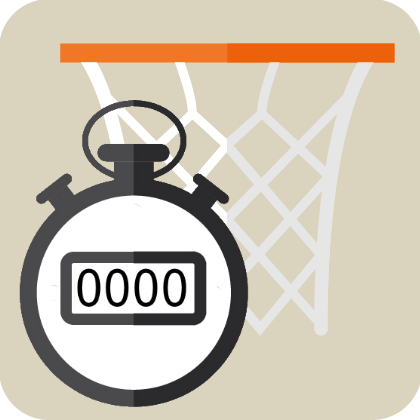
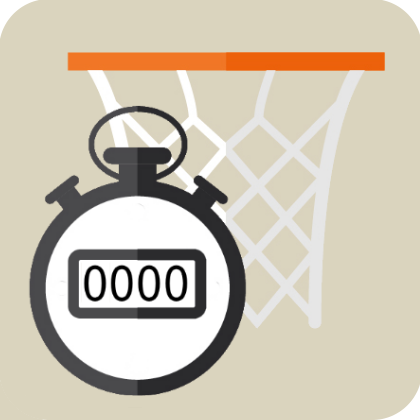
New layout

diff --git a/main.py b/main.py
@@ -5,6 +5,7 @@ from kivy.uix.screenmanager import ScreenManager, Screen
 from kivy.uix.image import Image
 from kivy.properties import NumericProperty
 from kivy.config import Config
+from kivy.metrics import dp
 from kivy.lang.builder import Builder
 
 import json
@@ -12,7 +13,6 @@ import time
 
 from controllerdrill import ControllerDrill
 
-Config.read("config.ini")
 
 class Manager(ScreenManager):
 
@@ -37,25 +37,48 @@ class Manager(ScreenManager):
         with open(path + 'saved_score.json', 'w') as saved_score:
             json.dump(self.data, saved_score)
 
+    def back_menu(self, window, key, *args):
+            if key == 27:
+                App.get_running_app().root.current = 'menu'
+                self.transition.direction = "right"
+            return True
+
         
 class Menu(Screen):
     pass
 
+class Settings(screen):
+    pass
+
 class Drill(Screen):
 
+    splash = NumericProperty(0)
+    wrong = NumericProperty(0)
+    percentage = NumericProperty(.0)
+
     def __init__(self,**kwargs):
-        super().__init__(**kwargs)
         self.session = ControllerDrill()
+        super().__init__(**kwargs)
         self.last_shots = [0,0,0,0,0,0,0,0,0,0]
 
     def on_pre_enter(self):
-        Window.bind(on_keyboard=self.back_menu)
+        Window.bind(on_keyboard=App.get_running_app().root.back_menu)
         self.session.reset_status()
+        self.last_shots = self.session.status['last_ten']
         self.draw_balls(self.last_shots)
+        self.ids.points.text = '[size=33]0[/size]/0'
+        self.ids.percentage.text = '0%'
 
     def on_pre_leave(self):
-        Window.unbind(on_keyboard=self.back_menu)
-        self.ids.status.text = '0/0'
+        Window.unbind(on_keyboard=App.get_running_app().root.back_menu)
+        
+    def on_splash(self,*args):
+        self.ids.points.text = f"[size=33]{self.session.status['point']}[/size]"+'/'+str(self.session.status['attempt'])
+        self.ids.percentage.text = str(round(self.session.status['accuracy']*100,1))+'%'
+
+    def on_wrong(self,*args):
+        self.ids.points.text = f"[size=33]{self.session.status['point']}[/size]"+'/'+str(self.session.status['attempt'])
+        self.ids.percentage.text = str(round(self.session.status['accuracy']*100,1))+'%'
 
     def draw_balls(self, balls:list):
         self.ids.boxBall.clear_widgets()
@@ -67,15 +90,17 @@ class Drill(Screen):
             if ball == 2:
                 self.ids.boxBall.add_widget(Image(source='img/red_ball.png'))
     
-    def shot_splash(self, status):
-        points_text, self.last_shots = self.session.increment_point()
+    def shot_splash(self):
+        points, self.last_shots = self.session.increment_point()
         self.draw_balls(self.last_shots)
-        status.text = str(points_text)
+        self.splash = points['point']
+        self.percentage = points['accuracy']
 
-    def shot_wrong(self, status):
-        points_text, self.last_shots = self.session.increment_error()
+    def shot_wrong(self):
+        points, self.last_shots = self.session.increment_error()
         self.draw_balls(self.last_shots)
-        status.text = str(points_text)
+        self.wrong = points['attempt']
+        self.percentage = points['accuracy']
 
     def finish_session(self, *args):
         date = time.localtime()
@@ -83,40 +108,39 @@ class Drill(Screen):
         App.get_running_app().root.saveDrill(
             {'accuracy':self.session.status['accuracy'], 
                 'points':self.session.status['point'], 
+                'attempt':self.session.status['attempt'], 
                 'best_sequence':self.session.status['best_sequence'],
                 'worst_sequence':self.session.status['worst_sequence'],
                 'date':saved_date})
-
-    def back_menu(self, window, key, *args):
-            if key == 27:
-                App.get_running_app().root.current = 'menu'
-                self.ids.status.text = '0/0'
-            return True
-
 
 
 class SavedScore(Screen):
 
     def on_pre_enter(self):
+        Window.bind(on_keyboard=App.get_running_app().root.back_menu)
         self.ids.box.clear_widgets()
         sessions = App.get_running_app().root.loadDrill()
         for session in sessions:
             self.ids.box.add_widget(SessionScore(session))
     
+    def on_pre_leave(self):
+        Window.unbind(on_keyboard=App.get_running_app().root.back_menu)
     
+
+class SavedDetails(Screen):
+    pass
+
 class SessionScore(BoxLayout):
 
     def __init__(self,session,**kwargs):
         super().__init__(**kwargs)
         self.ids.accuracy.text = str(round(session['accuracy']*100,1))+"%"
-        self.ids.splash.text = str(session['points'])
+        self.ids.result.text = str(session['points'])+'/'+str(session['attempt'])
         self.ids.best_sequence.text = str(session['best_sequence'])
+        self.ids.worst_sequence.text = str(session['worst_sequence'])
         self.ids.date.text = str(session['date'])
 
 
-            
-
-    
 class Splashscore(App):
 
     def build(self):

diff --git a/controllerdrill.py b/controllerdrill.py
@@ -19,8 +19,8 @@ class ControllerDrill():
         self.status['sequence'][1] = 0
         self._check_sequence()
         last_points = self._update_last_ten(is_point=True)
-        text = str(self.status['point'])+ '/' +str(self.status['attempt']) + ' -> ' + str(round(self.status['accuracy']*100,1))+ '%'
-        return text, last_points
+        # text = str(self.status['point'])+ '/' +str(self.status['attempt']) + ' -> ' + str(round(self.status['accuracy']*100,1))+ '%'
+        return self.status, last_points
 
     def increment_error(self, *args):
         self.status['attempt'] += 1
@@ -29,8 +29,8 @@ class ControllerDrill():
         self.status['sequence'][1] += 1
         self._check_sequence()
         last_points = self._update_last_ten()
-        text = str(self.status['point'])+ '/' +str(self.status['attempt']) + ' -> ' + str(round(self.status['accuracy']*100,1))+ '%'
-        return text, last_points
+        # text = str(self.status['point'])+ '/' +str(self.status['attempt']) + ' -> ' + str(round(self.status['accuracy']*100,1))+ '%'
+        return self.status, last_points
         
     def _check_sequence(self):
         '''
